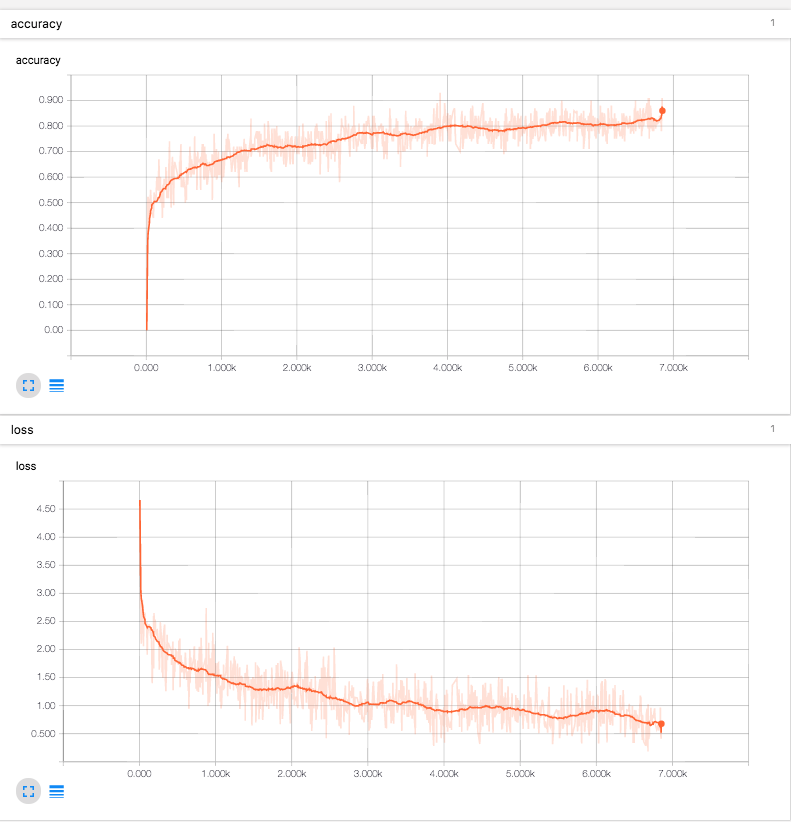
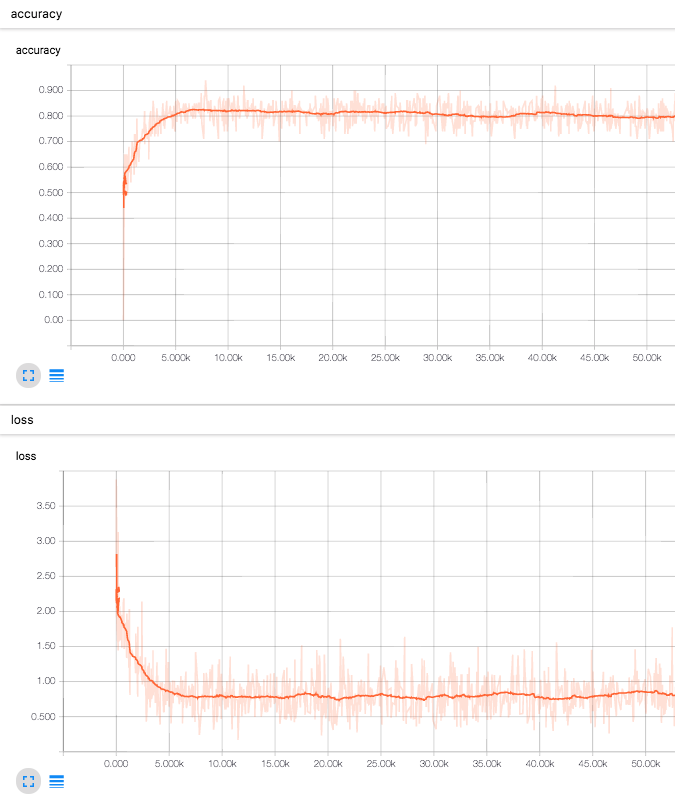
Update README.md

diff --git a/README.md b/README.md
@@ -26,6 +26,8 @@ scripts/start_tensorboard.sh
 open http://localhost:6006
 ```
 
+> 在默认参数下，运行57,123 steps: loss 0.591968, acc 0.8
+
 ![](./assets/loss.png)
 
 # Data
